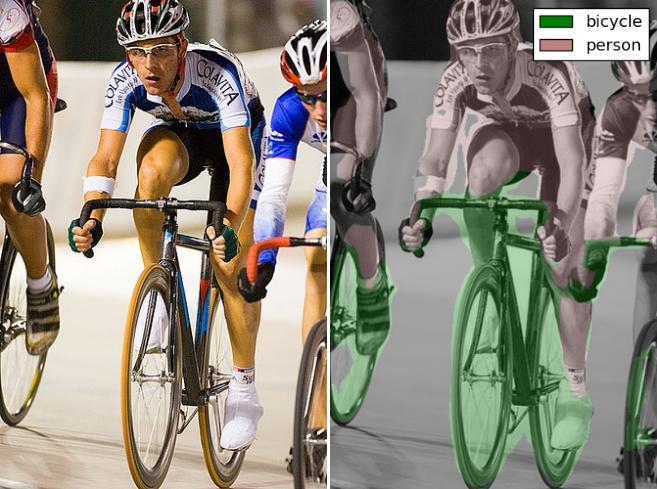
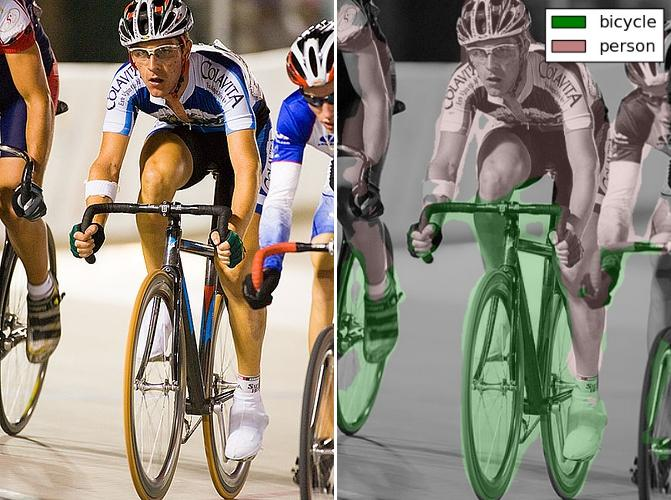
Update visualization

diff --git a/scripts/fcn_forward.py b/scripts/fcn_forward.py
@@ -71,6 +71,7 @@ class Forwarding(object):
         # visualize
         cmap = fcn.util.labelcolormap(21)
         label_viz = label2rgb(label, img, colors=cmap[1:], bg_label=0)
+        label_viz[label == 0] = cmap[0]
         # plot image
         plt.subplots_adjust(left=0, right=1, top=1, bottom=0,
                             wspace=0, hspace=0)
@@ -83,8 +84,6 @@ class Forwarding(object):
         plt_handlers = []
         plt_titles = []
         for l in np.unique(label):
-            if l == np.where(self.target_names == 'background')[0][0]:
-                continue  # skip background
             fc = cmap[l]
             p = plt.Rectangle((0, 0), 1, 1, fc=fc)
             plt_handlers.append(p)
